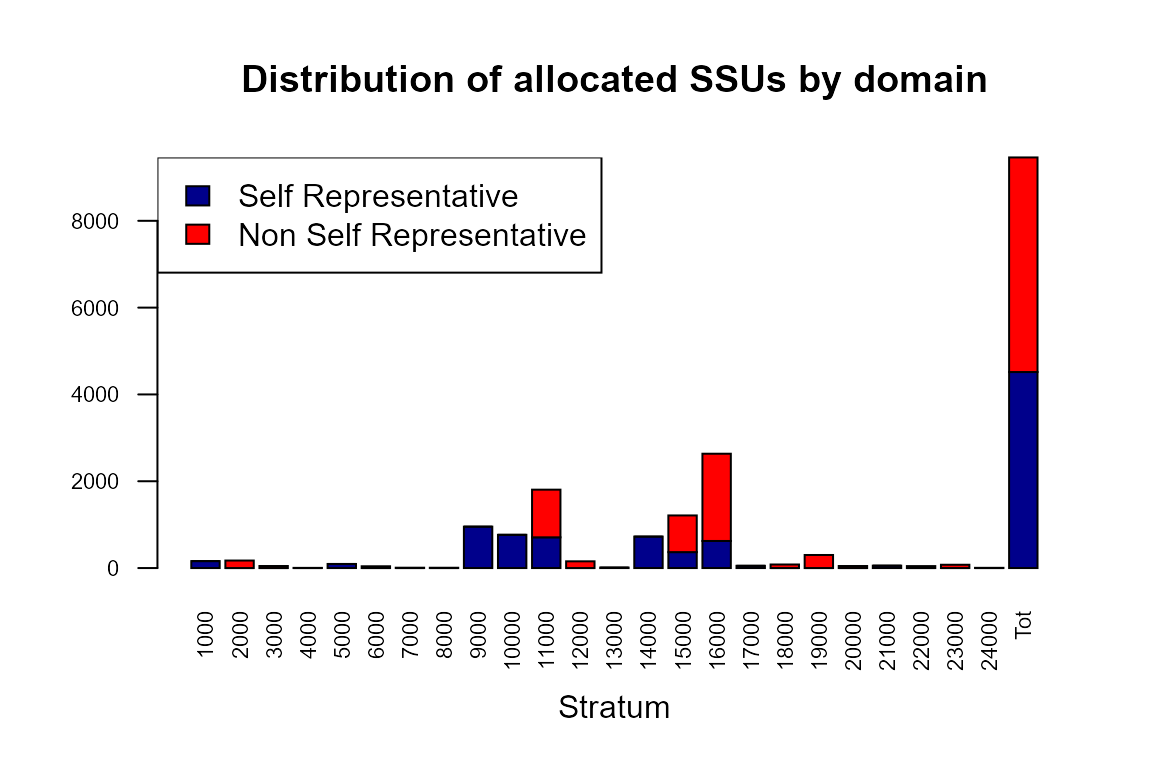
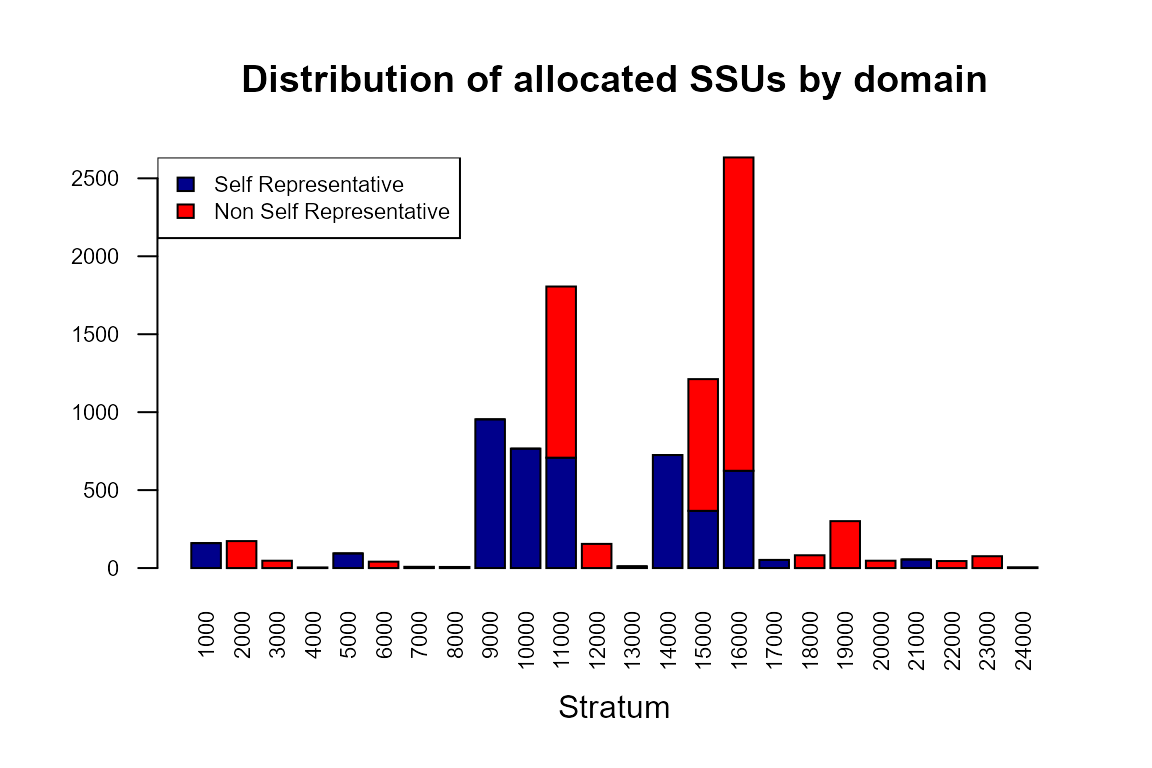
site

diff --git a/docs/articles/R2BEAT_workflow.html b/docs/articles/R2BEAT_workflow.html
@@ -91,7 +91,7 @@
     <div class="page-header toc-ignore">
       <h1 data-toc-skip>R2BEAT two-stage sampling design workflow starting from a previous survey</h1>
             
-            <h4 class="date">2021-01-27 <br><br><br>
+            <h4 class="date">2021-02-15 <br><br><br>
 </h4>
       
       <small class="dont-index">Source: <a href="https://github.com/barcaroli/R2BEAT/blob/master/vignettes/R2BEAT_workflow.Rmd"><code>vignettes/R2BEAT_workflow.Rmd</code></a></small>
@@ -254,7 +254,7 @@
 <div class="sourceCode" id="cb23"><pre class="downlit">
 <span class="kw">RGdes</span> <span class="op">&lt;-</span> <span class="kw">des</span>                           <span class="co"># ReGenesees design object</span>
 <span class="kw">RGcal</span> <span class="op">&lt;-</span> <span class="kw">cal</span>                           <span class="co"># ReGenesees calibrated object</span>
-
+<span class="kw">weight_var</span> <span class="op">&lt;-</span> <span class="st">"wgts"</span>
 <span class="kw">strata_vars</span> <span class="op">&lt;-</span> <span class="fu"><a href="https://rdrr.io/r/base/c.html">c</a></span>(<span class="st">"stratum"</span>)            <span class="co"># variables of stratification</span>
 <span class="kw">target_vars</span> <span class="op">&lt;-</span> <span class="fu"><a href="https://rdrr.io/r/base/c.html">c</a></span>(<span class="st">"income_hh"</span>,
                  <span class="st">"active"</span>,
@@ -267,6 +267,7 @@
 <span class="kw">domain_vars</span> <span class="op">&lt;-</span> <span class="fu"><a href="https://rdrr.io/r/base/c.html">c</a></span>(<span class="st">"region"</span>)             <span class="co"># domain variables</span>
 <span class="kw">inp1</span> <span class="op">&lt;-</span> <span class="fu"><a href="../reference/input_to_beat.2st_1.html">input_to_beat.2st_1</a></span>(<span class="kw">RGdes</span>,
                             <span class="kw">RGcal</span>,
+                            <span class="kw">weight_var</span>,
                             <span class="kw">id_PSU</span>,
                             <span class="kw">id_SSU</span>,
                             <span class="kw">strata_vars</span>,
@@ -543,21 +544,21 @@
 <div class="sourceCode" id="cb52"><pre class="downlit">
 <span class="kw">des</span> <span class="op">&lt;-</span> <span class="kw">sample_2st</span>[[<span class="fl">2</span>]]
 <span class="kw">des</span> <span class="op">&lt;-</span> <span class="kw">des</span>[<span class="fl">1</span><span class="op">:</span>(<span class="fu"><a href="https://rdrr.io/r/base/nrow.html">nrow</a></span>(<span class="kw">des</span>)<span class="op">-</span><span class="fl">1</span>),]
-<span class="kw">strat</span> <span class="op">&lt;-</span> <span class="fu"><a href="https://rdrr.io/r/base/c.html">c</a></span>(<span class="fu"><a href="https://rdrr.io/r/base/character.html">as.character</a></span>(<span class="fu"><a href="https://rdrr.io/r/base/numeric.html">as.numeric</a></span>(<span class="kw">des</span><span class="op">$</span><span class="kw">Domain</span>[<span class="fl">1</span><span class="op">:</span>(<span class="fu"><a href="https://rdrr.io/r/base/nrow.html">nrow</a></span>(<span class="kw">des</span>)<span class="op">-</span><span class="fl">1</span>)])),<span class="st">"Tot"</span>)
-<span class="fu"><a href="https://rdrr.io/r/graphics/barplot.html">barplot</a></span>(<span class="fu"><a href="https://rdrr.io/r/base/t.html">t</a></span>(<span class="kw">des</span>[<span class="fl">1</span><span class="op">:</span>(<span class="fu"><a href="https://rdrr.io/r/base/nrow.html">nrow</a></span>(<span class="kw">des</span>)),<span class="fl">2</span><span class="op">:</span><span class="fl">3</span>]), names=<span class="kw">strat</span>,
+<span class="kw">strat</span> <span class="op">&lt;-</span> <span class="fu"><a href="https://rdrr.io/r/base/c.html">c</a></span>(<span class="fu"><a href="https://rdrr.io/r/base/character.html">as.character</a></span>(<span class="fu"><a href="https://rdrr.io/r/base/numeric.html">as.numeric</a></span>(<span class="kw">des</span><span class="op">$</span><span class="kw">Domain</span>[<span class="fl">1</span><span class="op">:</span>(<span class="fu"><a href="https://rdrr.io/r/base/nrow.html">nrow</a></span>(<span class="kw">des</span>)<span class="op">-</span><span class="fl">1</span>)])))
+<span class="fu"><a href="https://rdrr.io/r/graphics/barplot.html">barplot</a></span>(<span class="fu"><a href="https://rdrr.io/r/base/t.html">t</a></span>(<span class="kw">des</span>[<span class="fl">1</span><span class="op">:</span>(<span class="fu"><a href="https://rdrr.io/r/base/nrow.html">nrow</a></span>(<span class="kw">des</span>)<span class="op">-</span><span class="fl">1</span>),<span class="fl">2</span><span class="op">:</span><span class="fl">3</span>]), names=<span class="kw">strat</span>,
         col=<span class="fu"><a href="https://rdrr.io/r/base/c.html">c</a></span>(<span class="st">"darkblue"</span>,<span class="st">"red"</span>), las=<span class="fl">2</span>, xlab = <span class="st">"Stratum"</span>, cex.axis=<span class="fl">0.7</span>, cex.names=<span class="fl">0.7</span>)
 <span class="fu"><a href="https://rdrr.io/r/graphics/legend.html">legend</a></span>(<span class="st">"topleft"</span>, 
-       legend = <span class="fu"><a href="https://rdrr.io/r/base/c.html">c</a></span>(<span class="st">"Self Representative"</span>,<span class="st">"Non Self Representative"</span>),
+       legend = <span class="fu"><a href="https://rdrr.io/r/base/c.html">c</a></span>(<span class="st">"Self Representative"</span>,<span class="st">"Non Self Representative"</span>),cex=<span class="fl">0.7</span>,
        fill = <span class="fu"><a href="https://rdrr.io/r/base/c.html">c</a></span>(<span class="st">"darkblue"</span>, <span class="st">"red"</span>))
 <span class="fu"><a href="https://rdrr.io/r/graphics/title.html">title</a></span>(<span class="st">"Distribution of allocated PSUs by domain"</span>)
 </pre></div>
 <p><img src="R2BEAT_workflow_files/figure-html/unnamed-chunk-27-1.png" width="576"></p>
 <div class="sourceCode" id="cb53"><pre class="downlit">
-<span class="fu"><a href="https://rdrr.io/r/graphics/barplot.html">barplot</a></span>(<span class="fu"><a href="https://rdrr.io/r/base/t.html">t</a></span>(<span class="kw">des</span>[<span class="fl">1</span><span class="op">:</span>(<span class="fu"><a href="https://rdrr.io/r/base/nrow.html">nrow</a></span>(<span class="kw">des</span>)),<span class="fl">5</span><span class="op">:</span><span class="fl">6</span>]), names=<span class="kw">strat</span>,
+<span class="fu"><a href="https://rdrr.io/r/graphics/barplot.html">barplot</a></span>(<span class="fu"><a href="https://rdrr.io/r/base/t.html">t</a></span>(<span class="kw">des</span>[<span class="fl">1</span><span class="op">:</span>(<span class="fu"><a href="https://rdrr.io/r/base/nrow.html">nrow</a></span>(<span class="kw">des</span>)<span class="op">-</span><span class="fl">1</span>),<span class="fl">5</span><span class="op">:</span><span class="fl">6</span>]), names=<span class="kw">strat</span>,
         col=<span class="fu"><a href="https://rdrr.io/r/base/c.html">c</a></span>(<span class="st">"darkblue"</span>,<span class="st">"red"</span>), las=<span class="fl">2</span>, xlab = <span class="st">"Stratum"</span>, cex.axis=<span class="fl">0.7</span>, 
         cex.names=<span class="fl">0.7</span>)
 <span class="fu"><a href="https://rdrr.io/r/graphics/legend.html">legend</a></span>(<span class="st">"topleft"</span>, 
-       legend = <span class="fu"><a href="https://rdrr.io/r/base/c.html">c</a></span>(<span class="st">"Self Representative"</span>,<span class="st">"Non Self Representative"</span>),
+       legend = <span class="fu"><a href="https://rdrr.io/r/base/c.html">c</a></span>(<span class="st">"Self Representative"</span>,<span class="st">"Non Self Representative"</span>),cex=<span class="fl">0.7</span>,
        fill = <span class="fu"><a href="https://rdrr.io/r/base/c.html">c</a></span>(<span class="st">"darkblue"</span>, <span class="st">"red"</span>))
 <span class="fu"><a href="https://rdrr.io/r/graphics/title.html">title</a></span>(<span class="st">"Distribution of allocated SSUs by domain"</span>)
 </pre></div>
@@ -641,7 +642,7 @@
 
 
       <footer><div class="copyright">
-  <p>Developed by Andrea Fasulo, Raffaella Cianchetta, Giulio Barcaroli, Stefano Falorsi, Alessio Guandalini, Daniela Pagliuca, Marco Dionisio Terribili.</p>
+  <p>Developed by Andrea Fasulo, Giulio Barcaroli, Raffaella Cianchetta, Stefano Falorsi, Alessio Guandalini, Daniela Pagliuca, Marco Dionisio Terribili.</p>
 </div>
 
 <div class="pkgdown">

diff --git a/docs/reference/input_to_beat.2st_1.html b/docs/reference/input_to_beat.2st_1.html
@@ -110,7 +110,10 @@
       <a href="../articles/R2BEAT_methodology.html">R2BEAT methodology and use</a>
     </li>
     <li>
-      <a href="../articles/R2BEAT_workflow.html">R2BEAT two-stage sampling design workflow</a>
+      <a href="../articles/R2BEAT_workflow.html">R2BEAT two-stage sampling design workflow starting from a previous survey</a>
+    </li>
+    <li>
+      <a href="../articles/R2BEAT_workflow_from_frame.html">R2BEAT two-stage sampling design workflow starting from the sampling frame</a>
     </li>
   </ul>
 </li>
@@ -153,6 +156,7 @@
 
     <pre class="usage"><span class='fu'>input_to_beat.2st_1</span>(<span class='kw'>RGdes</span>,
                         <span class='kw'>RGcal</span>,
+                        <span class='kw'>weight_var</span>,
                         <span class='kw'>id_PSU</span>,
                         <span class='kw'>id_SSU</span>,
                         <span class='kw'>strata_vars</span>,
@@ -170,6 +174,10 @@
     <tr>
       <th>RGcal</th>
       <td><p>ReGenesees calibrated object.</p></td>
+    </tr>
+    <tr>
+      <th>weight_var</th>
+      <td><p>name of the weight variable in the design object.</p></td>
     </tr>
     <tr>
       <th>id_PSU</th>
@@ -208,6 +216,7 @@
 <span class='fu'><a href='https://rdrr.io/r/base/load.html'>load</a></span>(<span class='st'>"R2BEAT_ReGenesees.RData"</span>)   <span class='co'># ReGenesees design and calibration objects plus PSU data</span>
 
 <span class='kw'>RGdes</span> <span class='op'>&lt;-</span> <span class='kw'>des</span>                           <span class='co'># ReGenesees design object</span>
+<span class='kw'>weight_var</span> <span class='op'>&lt;-</span> <span class='st'>"wgts"</span>                 <span class='co'># name of the weight variable</span>
 <span class='kw'>RGcal</span> <span class='op'>&lt;-</span> <span class='kw'>cal</span>                           <span class='co'># ReGenesees calibrated object</span>
 
 <span class='kw'>strata_vars</span> <span class='op'>&lt;-</span> <span class='fu'><a href='https://rdrr.io/r/base/c.html'>c</a></span>(<span class='st'>"stratum"</span>)            <span class='co'># variables of stratification</span>
@@ -222,6 +231,7 @@
 <span class='kw'>domain_vars</span> <span class='op'>&lt;-</span> <span class='fu'><a href='https://rdrr.io/r/base/c.html'>c</a></span>(<span class='st'>"region"</span>)             <span class='co'># domain variables</span>
 <span class='kw'>inp1</span> <span class='op'>&lt;-</span> <span class='fu'>input_to_beat.2st_1</span>(<span class='kw'>RGdes</span>,
                             <span class='kw'>RGcal</span>,
+                            <span class='kw'>weight_var</span>,
                             <span class='kw'>id_PSU</span>,
                             <span class='kw'>id_SSU</span>,
                             <span class='kw'>strata_vars</span>,
@@ -245,7 +255,7 @@
 
       <footer>
       <div class="copyright">
-  <p>Developed by Andrea Fasulo, Raffaella Cianchetta, Giulio Barcaroli, Stefano Falorsi, Alessio Guandalini, Daniela Pagliuca, Marco Dionisio Terribili.</p>
+  <p>Developed by Andrea Fasulo, Giulio Barcaroli, Raffaella Cianchetta, Stefano Falorsi, Alessio Guandalini, Daniela Pagliuca, Marco Dionisio Terribili.</p>
 </div>
 
 <div class="pkgdown">

diff --git a/docs/index.html b/docs/index.html
@@ -235,7 +235,7 @@
     <div class="links">
 <h2>Links</h2>
 <ul class="list-unstyled">
-<li>Download from CRAN at <br><a href="https://cloud.r-project.org/package=R2BEAT%20">https://cloud.r-project.org/package=R2BEAT </a>
+<li>Download from CRAN at <br><a href="https://cloud.r-project.org/package=R2BEAT">https://cloud.r-project.org/package=R2BEAT </a>
 </li>
 <li>Browse source code at <br><a href="https://github.com/barcaroli/R2BEAT/">https://github.com/barcaroli/R2BEAT/</a>
 </li>
